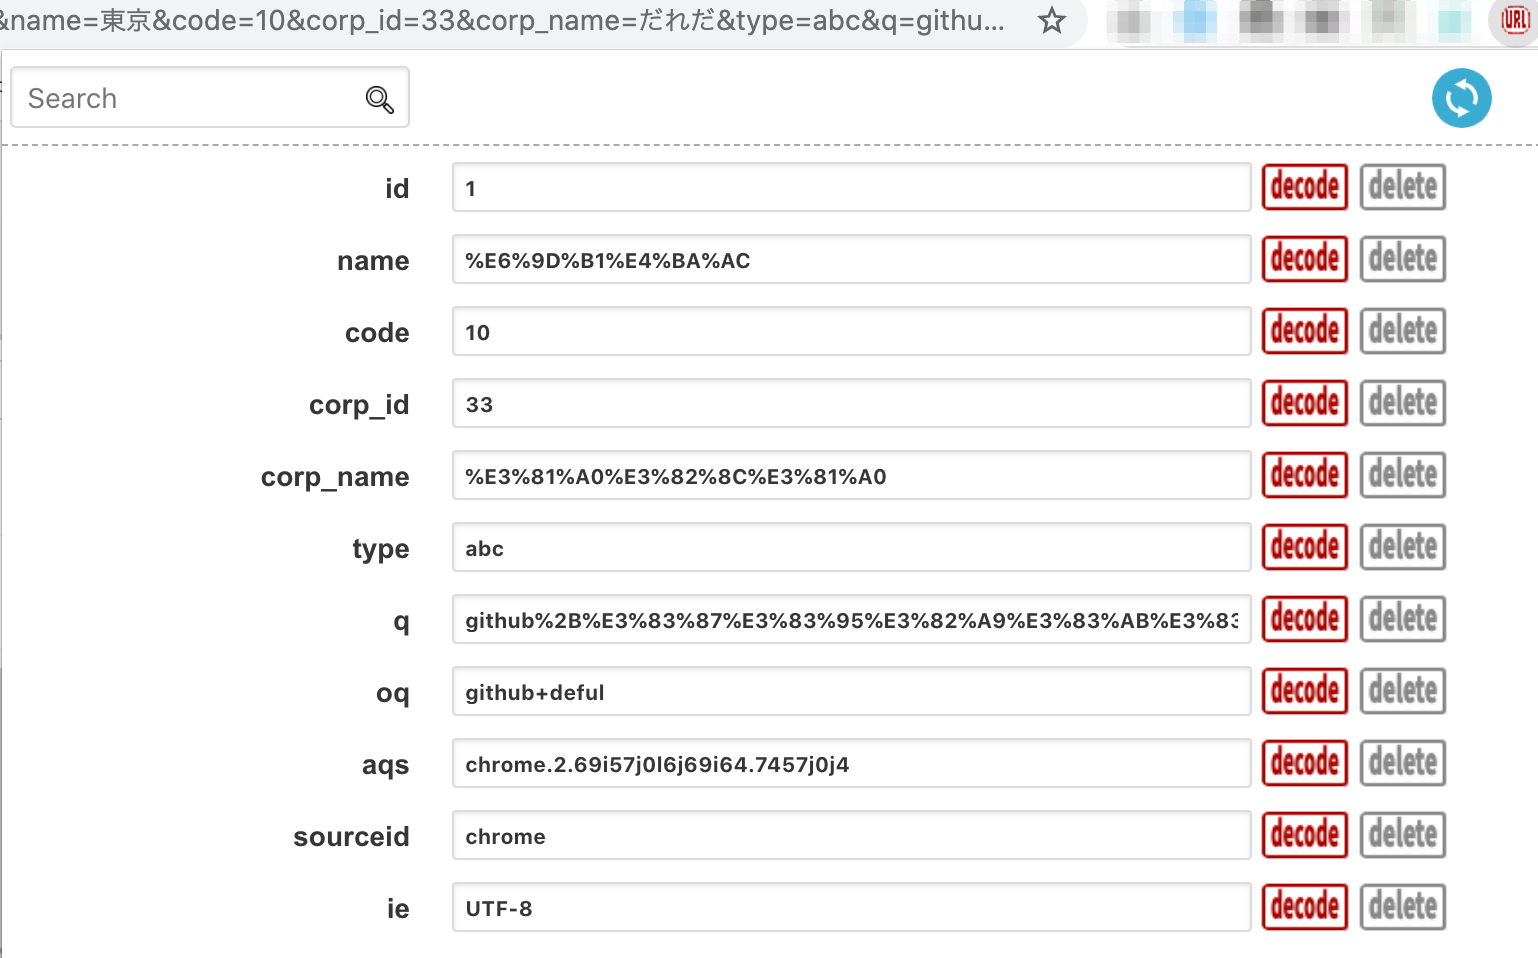
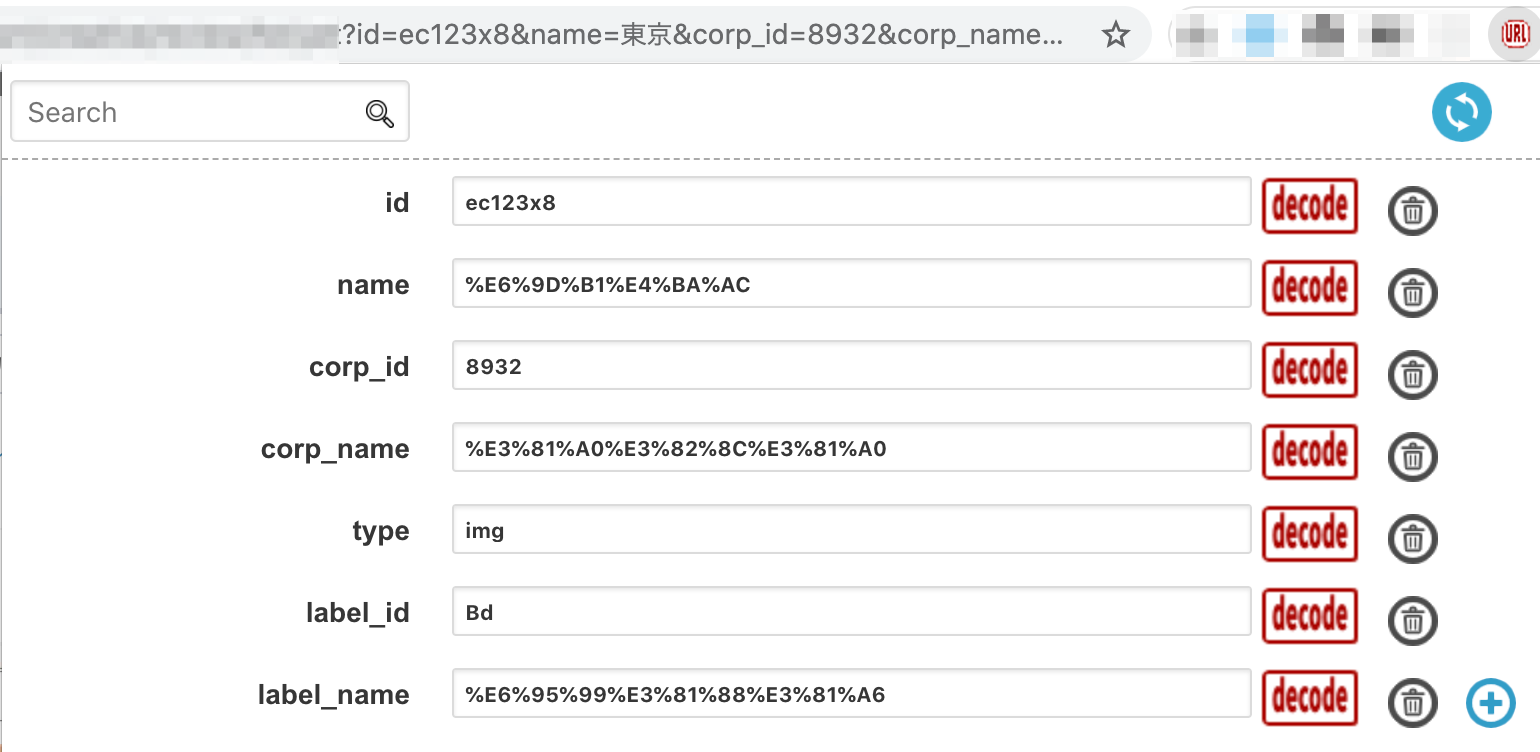
add parameters function

Changed region(s): [[0.156, 0.0, 1.0, 0.9787], [0.0, 0.0, 0.6866, 0.2141], [0.1248, 0.1223, 0.156, 0.1529]]

diff --git a/js/popup.js b/js/popup.js
@@ -1,21 +1,44 @@
 $(function() {
-  var paramList = (function() {
-    var key = localStorage.getItem("key");
+  const paramList = (function() {
+    const key = localStorage.getItem("key");
     function createLi(obj) {
-      var paramsObj = JSON.parse(obj);
-      var dom = "";
-      for (var key in paramsObj) {
+      const paramsObj = JSON.parse(obj);
+      const paramsObjLength = Object.keys(paramsObj).length;
+      let dom = "";
+      let i = 1;
+      let isShowAddIcon = false;
+      for (const key in paramsObj) {
         var value = paramsObj[key];
-        dom += li(key, value);
+        if (i == paramsObjLength) {
+          isShowAddIcon = true;
+        }
+        dom += li(key, value, addIconElem(isShowAddIcon));
+        i++;
       }
       $(".list").html("").append(dom);
     }
-    function li(key, value) {
+    function addIconElem(isShowAddIcon) {
+      if (isShowAddIcon) {
+        return　`
+          <a class="is-outlined is-small j-add">
+            <img class="add-icon" src="../icons/add.png" alt="add">
+          </a>`;
+      } else {
+        return "";
+      }
+    }
+    function li(key, value, addIconElem) {
+      let keyElem = "";
+      if (key) {
+        keyElem = `<label class="label param-name">${key}</label>`
+      } else {
+        keyElem = `<input class="input is-small param-name" type="text" value="">`;
+      }
       return `
         <li>
           <div class="field is-horizontal">
             <div class="field-label ">
-              <label class="label param-name">${key}</label>
+              ${keyElem}
             </div>
             <div class="field-body">
               <div class="field">
@@ -27,6 +50,7 @@ $(function() {
                   <a class="is-outlined is-small j-delete">
                     <img class="delete-icon" src="../icons/delete.png" alt="delete">
                   </a>
+                  ${addIconElem}
                 </div>
               </div>
             </div>
@@ -35,18 +59,18 @@ $(function() {
     }
 
     function searchFilter(val) {
-      var $li = $(".list li");
+      const $li = $(".list li");
       if (!val.length) {
         $li.show();
         return;
       }
-      for (var i = 0; i < $li.length; i++) {
-        var elem = $li.eq(i);
-        var isExist = elem.find(".label").text().indexOf(val) > -1 ? true : false;
+      for (let i = 0; i < $li.length; i++) {
+        const $elem = $li.eq(i);
+        var isExist = $elem.find(".label").text().indexOf(val) > -1 ? true : false;
         if (!isExist) {
-          elem.hide();
+          $elem.hide();
         } else {
-          elem.show();
+          $elem.show();
         }
       }
     }
@@ -58,38 +82,52 @@ $(function() {
     }
 
     function evnetBind() {
-      $(document).on("click", ".j-decode", function(e) {
-        var elem = $(this).parent(".control").find("input");
+      $(document).on("click", ".j-decode", function() {
+        let $elem = $(this).parent(".control").find("input");
         if ($(this).attr("data-isDecode") == "0") {
-          elem.val(decodeURIComponent(elem.val()));
+          $elem.val(decodeURIComponent($elem.val()));
           $(this).attr("data-isDecode", 1).children('img').attr("src", "../icons/encode.png");
         } else {
-          elem.val(encodeURIComponent(elem.val()));
+          $elem.val(encodeURIComponent($elem.val()));
           $(this).attr("data-isDecode", 0).children('img').attr("src", "../icons/decode.png");
         }
       });
       $(document).on("input", ".search-input", function(e) {
-        var val = $(this).val();
+        const val = $(this).val();
         searchFilter(val);
       });
 
-      $(document).on("click", ".j-delete", function(e) {
-        $(this).parents("li").remove();
+      $(document).on("click", ".j-delete", function() {
+        const $li = $(this).parents("li");
+        if ($li.find(".j-add").length > 0) {
+          $li.prev().find(".control").append(addIconElem(true));
+        }
+        $li.remove();
       });
 
-      $(document).on("click", ".refresh", function(e) {
-        var list = $(".list li");
-        var length = list.length;
-        var params = "";
-        var i = 0;
-        for (; i < length; i++) {
-          var li = list.eq(i);
-          params += li.find(".param-name").text() + "=" + li.find(".param-value").val() + "&";
+      $(document).on("click", ".j-add", function() {
+        const $li = $(this).parents("li");
+        const $newLi = li("", "", addIconElem(true));;
+        $li.parent().append($newLi);
+        $li.find('.j-add').remove();
+      });
+
+      $(document).on("click", ".refresh", function() {
+        const list = $(".list li");
+        const length = list.length;
+        let params = "";
+        for (let i = 0; i < length; i++) {
+          const li = list.eq(i);
+          const paramName = li.find(".param-name").text() || li.find(".param-name").val();
+          const paramValue = li.find(".param-value").val();
+          if (paramName && paramValue) {
+            params += `${paramName}=${paramValue}&`;
+          }
         }
         sendMessage({
           result: 0,
           type: 1,
-          msg: params
+          msg: params.slice(0, -1),
         });
       });
     }

diff --git a/css/style.css b/css/style.css
@@ -29,6 +29,7 @@ body, html {
     z-index: 99;
     background: #fff;
     border-bottom: 1px dashed #aaa;
+    margin-bottom: 0.5rem !important;
 }
 
 .level-right {
@@ -46,6 +47,7 @@ body, html {
 }
 
 .list {
+    margin-left: 20px;
     max-height: 540px;
     overflow-y: scroll;
 }
@@ -61,8 +63,9 @@ body,
     margin-bottom: 5px;
 }
 
-.field-label .label {
-    width: 200px;
+.field-label .label,
+.field-label .input {
+    width: 180px;
     line-height: 27px;
     overflow: hidden;
 }
@@ -88,7 +91,7 @@ body,
 }
 
 .search-input:focus {
-    width: 260px;
+    width: 360px;
 }
 
 .param-value {
@@ -96,12 +99,7 @@ body,
     height: 25px;
 }
 
-.decode-icon {
-    height: 25px;
-    width: 45px;
-}
-
-.delete-icon {
+.delete-icon, .add-icon {
     margin-left: 10px;
     height: 25px;
     width: 25px;

diff --git a/html/popup.html b/html/popup.html
@@ -8,7 +8,7 @@
 </head>
     <body>
         <div class="container">
-            <nav class="level">
+            <div class="level">
                 <div class="level-left">
                     <div class="level-item">
                         <div class="field has-addons">
@@ -23,7 +23,7 @@
                         <img src="../icons/refresh.png" alt="refresh">
                     </a>
                 </div>
-            </nav>
+            </div>
             <ul class="list"></ul>
         </div>
         <script src="../js/jquery-3.4.1.min.js"></script>

diff --git a/README.md b/README.md
@@ -9,3 +9,4 @@ Url Parameters Parse for Google Chrome
 - Filter parameters key
 - Decode / Encode parameters value
 - Delete parameters
+- Add parameters
